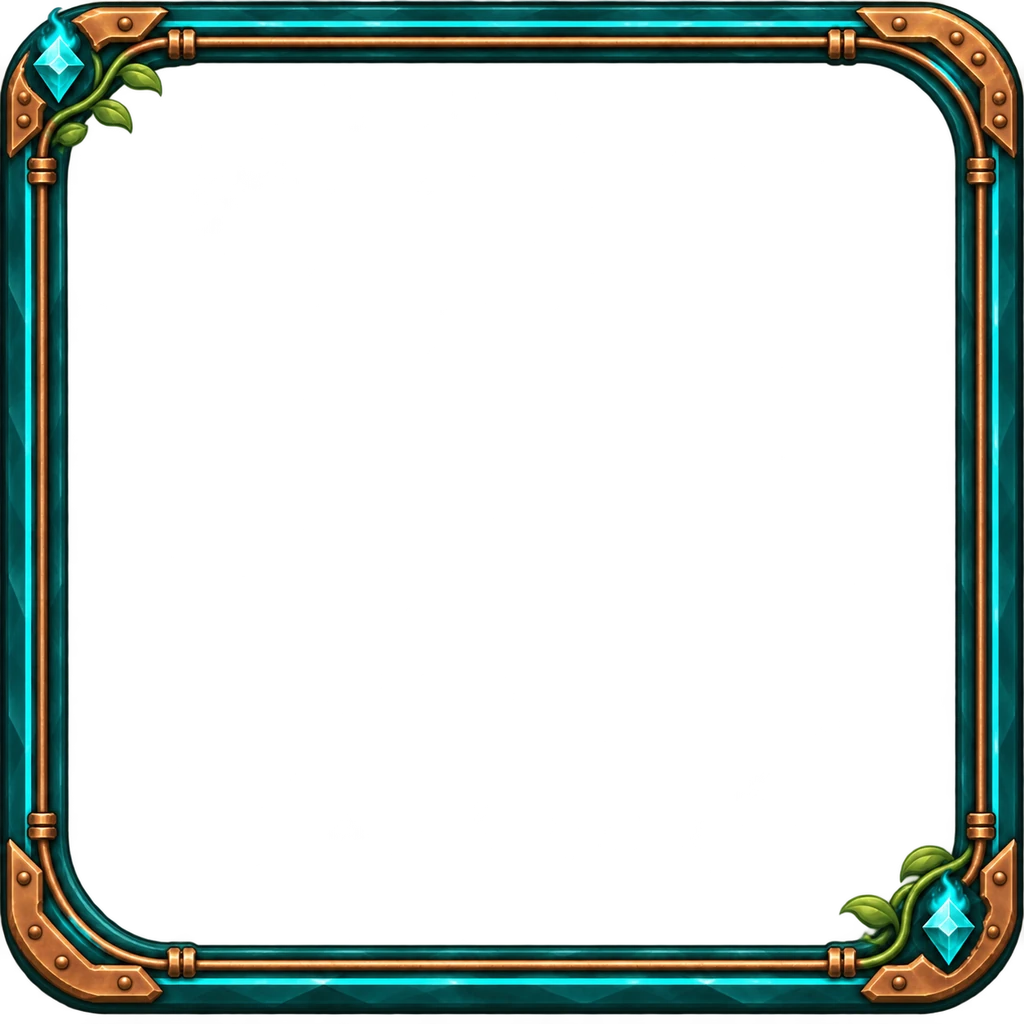
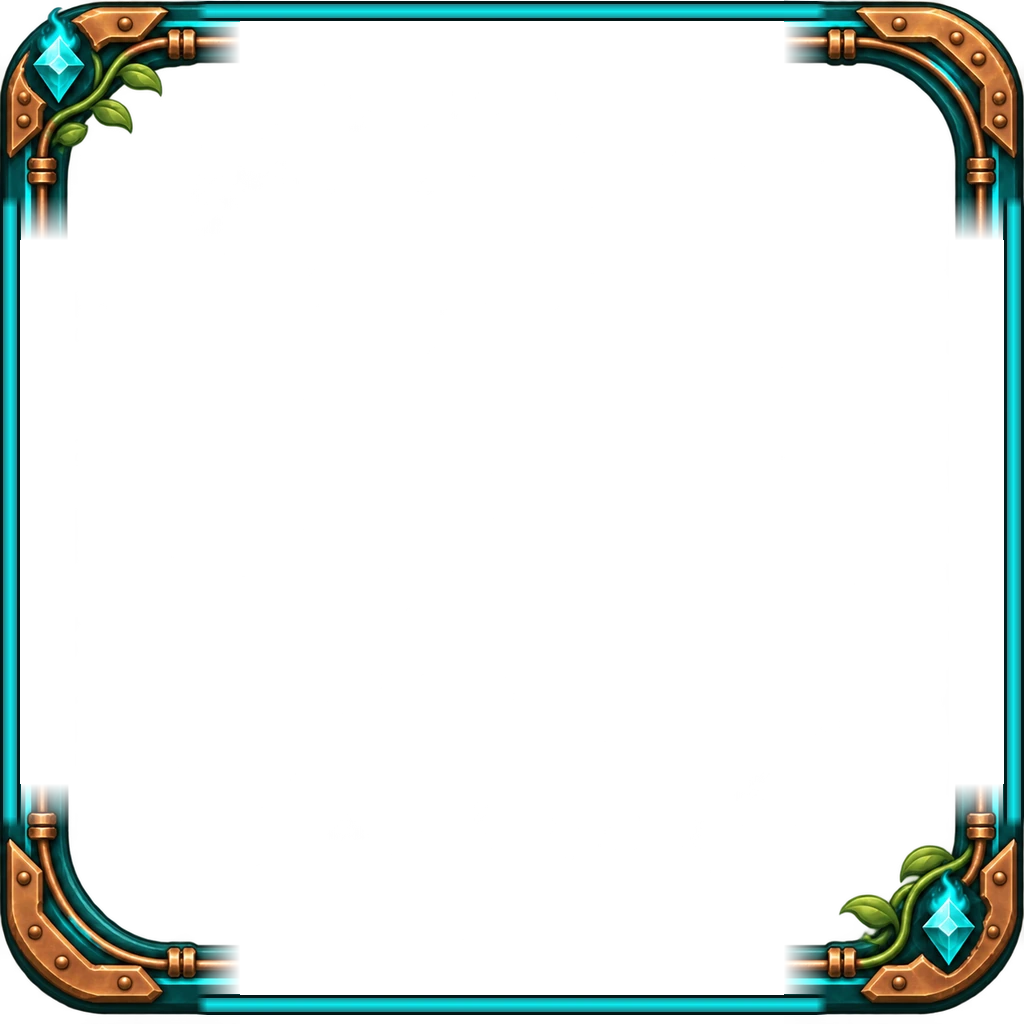
feat(arte): moldura cristal com a borda A (faixa turquesa lisa, sem bronze) (P6)
Substitui popup-cristal-1024.webp (mesmas dimensoes e slice 225); quinas identicas.

diff --git a/docs/INVENTARIO-ASSETS.md b/docs/INVENTARIO-ASSETS.md
@@ -520,3 +520,6 @@ Notas: a cota do ChatGPT foi atingida em 23/11 (retoma ao liberar); arquivo novo
 ## P6 — botões do Rift (23/11/2026, aprovados pelo dono)
 
 `src/assets/soulmon/ui/btn-rift{,-press,-off}.webp` (Enter the Rift, primário) e `btn-rift-sec{,-press,-off}.webp` (See the map, secundário). 1080×232, WebP, alfa real, sem texto na arte. Mesma família do `btn-ranking` (pedra facetada teal, filete de bronze), mas sem medalhão dourado: Enter tem um cristal turquesa em cada ponta; Map tem pontas lisas. 9-slice só na horizontal: pontas 200 px (Enter) e 150 px (Map); altura em CSS 72–84, mínimo 48. Cortes e regras de contraste em `btn-rift.cortes.json`. Implementação: `BotaoEspecial variant='rift'` (P3). Originais, prompt e tags em `E:/Soulmon-assets/p6-rift-botoes/`.
+
+## P6 — moldura cristal: borda A (24/11/2026)
+`ui/moldura-cristal/popup-cristal-1024.webp` substituída (mesmas dimensões 1024², `border-image-slice` 225): as 4 quinas ficam idênticas e os lados longos viram a faixa turquesa lisa fina (20 px nativos), sem fio de bronze (escolha do dono, 24/11). A tubulação de cobre das quinas esmaece organicamente depois do colar. Original/guarda: `E:\Soulmon-assets\p6-popup-cristal\final\popup-cristal-1024.png`; nova: `...\propostas-v2\popup-cristal-A-final-1024.png`.
